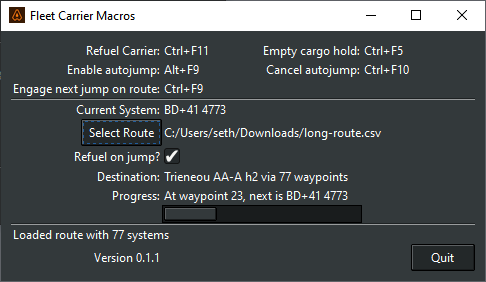
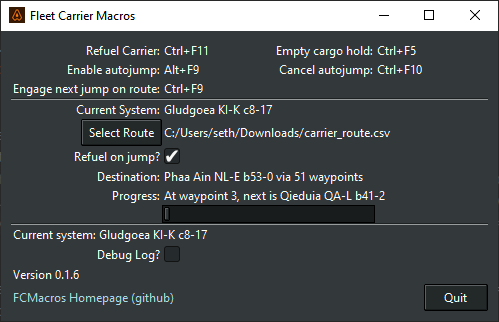
Updated docs and build for release 0.2.1

Changed region(s): [[0.0, 0.1418, 0.9568, 0.8794], [0.0, 0.0, 1.0, 1.0], [0.0, 0.8794, 0.3704, 0.9645]]

diff --git a/ocr.py b/ocr.py
@@ -1,3 +1,7 @@
+# Copyright (c) 2022 Seth Osher
+# OCR and Screen Image detection for fcmacros
+import os
+
 import cv2
 import pyautogui
 import pytesseract
@@ -165,7 +169,7 @@ def recognise(image, debug=False, show=False, save=False, confidence=80, save_su
             cv2.waitKey(0)
             cv2.destroyAllWindows()
         if save:
-            cv2.imwrite(f'images/debug_{save_suffix}.png', image)
+            cv2.imwrite(f'debugimages/debug_{save_suffix}.png', image)
 
     return details
 
@@ -239,7 +243,7 @@ if __name__ == '__main__':
 
 def get_screen_width():
     image = get_cv_screenshot()
-    logging.debug(f"Screen shape: {image.shape}")
+    logging.info(f"Screen shape: {image.shape}")
     return image.shape
 
 
@@ -247,7 +251,7 @@ def is_text_on_screen_list(words_list, region=None, debug=False, save="", show=F
     image = get_cv_screenshot(region)
     gray_image = cv2.cvtColor(image, cv2.COLOR_BGR2GRAY)
 
-    results = recognise(gray_image, confidence=51, debug=debug, save=len(save) > 0, show=True, save_suffix=save)
+    results = recognise(gray_image, confidence=51, debug=debug, save=len(save) > 0, show=show, save_suffix=save)
     for words in words_list:
         res = find_words(words, results, confidence=51)
         if res is not None:
@@ -286,11 +290,11 @@ def get_average_color_gray(region, debug_text=""):
 
 def get_average_color_bw(region, debug_text=""):
     image = get_cv_screenshot(region)
-    cv2.imwrite(f'images/debug_{debug_text}_color.png', image)
+    cv2.imwrite(f'debugimages/debug_{debug_text}_color.png', image)
     gray_image = cv2.cvtColor(image, cv2.COLOR_BGR2GRAY)
-    cv2.imwrite(f'images/debug_{debug_text}_gray.png', gray_image)
+    cv2.imwrite(f'debugimages/debug_{debug_text}_gray.png', gray_image)
     gray_image = cv2.threshold(gray_image, 0, 255, cv2.THRESH_BINARY | cv2.THRESH_OTSU)[1]
-    cv2.imwrite(f'images/debug_{debug_text}_thresh.png', gray_image)
+    cv2.imwrite(f'debugimages/debug_{debug_text}_thresh.png', gray_image)
     avg_color_per_row = np.average(gray_image, axis=0)
     avg_color = np.average(avg_color_per_row, axis=0)
     logging.debug(f"Average color for {debug_text} at {region} is {avg_color}")
@@ -315,6 +319,11 @@ def after_carrier_services(*args):
 
 
 def is_fullscreen():
+    f = glob.glob("debugimages")
+    if len(f) == 0:
+        os.mkdir("debugimages")
+        logging.info("Created debugimages folder")
+
     val = get_average_color_bw(WINDOW_TEST) <= ENABLED_THRESHOLD
-    logging.debug(f"Fullscreen={val}")
+    logging.info(f"Fullscreen={val}")
     return val

diff --git a/fcmacros.py b/fcmacros.py
@@ -14,8 +14,6 @@ import getpass
 import os
 import usersettings
 import webbrowser
-
-import locations
 import ocr
 from keymaps import *
 from locations import *
@@ -25,7 +23,7 @@ import sys
 import win32gui
 import zipfile
 
-VERSION = "0.1.6"
+VERSION = "0.2.1"
 BUNDLED = False
 LOGFILE = "fcmacros.log"
 
@@ -749,9 +747,9 @@ def setup_ui():
 
     ttk.Label(frame, text="Debug Log?").grid(column=0, row=row, sticky="e")
     ttk.Checkbutton(frame, variable=DEBUG).grid(column=1, row=row, sticky="w")
-    ttk.Label(frame, text="Image matching confidence?").grid(column=2, row=row, sticky="e")
+    # ttk.Label(frame, text="Image matching confidence?").grid(column=2, row=row, sticky="e")
     # ttk.Checkbutton(frame, variable=GRAYSCALE).grid(column=3, row=row, sticky="w")
-    ttk.Spinbox(frame, from_=10, to=90, textvariable=CONFIDENCE).grid(column=3, row=row, sticky="e")
+    # ttk.Spinbox(frame, from_=10, to=90, textvariable=CONFIDENCE).grid(column=3, row=row, sticky="e")
 
     row += 1
     ttk.Label(frame, text="Version " + VERSION).grid(column=0, row=row, sticky="w")
@@ -918,6 +916,7 @@ def run_main():
     ui_started = True
     log_setup()
     check_for_themes()
+    ocr.check_for_tesseract_exe()
     run_ui()
 
 

diff --git a/keymaps.py b/keymaps.py
@@ -1,3 +1,4 @@
+# Copyright (c) 2022 Seth Osher
 # These are the default keybindings
 # Change these if you have non standard settings
 # See also https://github.com/boppreh/keyboard/blob/master/keyboard/_canonical_names.py

diff --git a/locations.py b/locations.py
@@ -1,3 +1,4 @@
+# Copyright (c) 2022 Seth Osher
 # Offset to adjust for menubar missing on fullscreen
 FULLSCREEN_OFFSET = -10
 WINDOW_TEST = [635, 0, 100, 10]  # Location to test for window border

diff --git a/__main__.py b/__main__.py
@@ -1,3 +1,5 @@
+# Copyright (c) 2022 Seth Osher
+# Main launch for fcmacros running via pyinstaller
 from fcmacros import run_main
 
 

diff --git a/README.md b/README.md
@@ -17,30 +17,21 @@ Route files are in CSV format from the spansh router.  Only the first column mat
 Currently, this plugin uses default keybindings and mouse for input.  The mouse is used to navigate the galmap.
 Because it uses the keyboard and mouse, it is unlikely to work with a joystick or HOTAS enabled.
 
-Note: See _keymaps.py_ to edit the keboard mappings.  (Only in source coude version.)
+Note: See _keymaps.py_ to edit the keyboard mappings.  (Only in source code version.)
 
-It is also unlikely work with custom HUD colors as it uses image
-matching to verify its screen navigation.  If the macro cannot find the expected 
-ative
-user input it will abort for safety.
+The latest version no longer uses image matching, instead of uses known location on the screen
+and text recognition.  It may now work with custom HUD colors.  It is also hopefully insensitive
+to HUD Brightness options.    It is also tested on both windowed and full screen modes, but only at 1008p full screen.
 
-Because the HUD sizes are different on some ships, this may cause issues.  
-In particular the size of the "Carrier Services" UI button varies.
-Several different images are used to try and combat this. 
-It has been tested on the most likely to be used ships:
-* Imperial Cutter
-* Anaconda
-* Python
-* Type 9
-* Beluga
-
-You can add your own images if needed in addition to the ones supplied. 
-To do so, take a screenshot, clip out just the button (you can see the existing images in the images/ folder).
-Save this image in the images/ folder and make sure it is named "image-#.png".
+The tool is written attempting for safety in the UI.  
+If the macro cannot find the expected images or text it will abort for safety. 
+But I cannot guarantee it won't misbehave in some odd way.  It is just sending keys and mouse
+actions so if E:D loses focus while running it will start sending them to whatever application does have the focus.
 
 If you use the refuel option, make sure your ship has enough room for a full jumps worth of Tritium, 
 as much as 150 Tons if your carrier is fully loaded.   This option will load the carrier and the ship before 
 setting up a jump to minimize the carrier mass.
+
 
 ---------------
 
@@ -53,46 +44,62 @@ Option 1:
 
 Option 2:
 * Download the source
-* pip install keyboard pyautogui pillow opencv-python usersettings pywin32
+* pip install keyboard pyautogui pillow opencv-python usersettings pywin32 pytesseract
   * Or run "setup.cmd"
-* python fcmacros.py
+* python main.py
 
------------------
+
+--------------
+# 3rd Party Dependencies
+
+These are all included in the installation or are part of the pip install in setup.cmd.
+
+The latest edition uses teseract for the text recognition.  
+A portable copy is provided in a zip file and is auto extracted at first runtime.   
+More about the teseract project can be found [here](https://github.com/tesseract-ocr/tesseract/blob/main/doc/tesseract.1.asc).
+The provided copy is the [University of Manheim 64bit build.](https://github.com/UB-Mannheim/tesseract/wiki)  
+
+There is heavy use of [OpenCV](https://opencv.org/).  
+
+The latest version uses much less of [pyautogui](https://pyautogui.readthedocs.io/en/latest/)
+But much homage is owed to this tool.
+
+The UI theme is [awthemes awdark](https://sourceforge.net/projects/tcl-awthemes/) by Brad Lanam. (Thank you.)
+
+--------------
 
 # Troubleshooting
 
 Summary of actions are written to "fcmacros.log" in the working directory.
 If you are experiencing issues, enable debug logging.  The log file will contain
 details of every step the macro is taking - what keypresses it is making, 
-the images it is searching for on the screen etc.   Hopefully there will be enough
-information to trouble shoot.
+the images or text it is searching for on the screen etc.   Hopefully there will be enough
+information to troubleshoot.   For now it saves many debug_*.png images in the debugimages/ folder. 
+These are to also help troubleshoot problems.   You might see something like debug_TRITIUM_threshold.png. 
+If it doesn't contain the word "TRITIUM", that's a hint that it's not finding the text properly.
 
 Likely causes:
-* The image matching is screen resolution and colour specific.  If you're not running E:D at 1080p the images may not match.
-* Custom HUD colours will break the image matching.
-* Non-standard keybindings can also be a problem.
-* Try running in windowed mode if you are in full-screen mode.  Alt-Enter to switch modes.
-* Try using the default UI brightness.
-* You can also try reducing the image matching confidence from the default value of 75.
-* Look at some of the suggestions in the thread on issue report number 2: https://github.com/pilotso11/fc-macros/issues/2 
-
-If image matching is an issue, you can try replacing the images with your own cropped screenshots.
+* The image matching is screen resolution specific.  If you're not running E:D at 1080p the image locations are probably wrong.
+It should be possible to make them scale, but some experimentation is needed with different resolutions,
+especially those that are at different aspect ratios.
+* Custom HUD colours may be a problem, though hopefully not in the latest version.  If for some reason
+your colour palette is very bright or very dim, it might make it difficult to find what button is selected as the
+image is forced to a very high contrast.
+* As with the above, you might try using the default UI brightness.
+* Non-standard keybindings can also be a problem.  
+* Try running in windowed mode if you are in full-screen mode.  Alt-Enter to switch modes.  This also should be 
+working properly on the latest version in both modes, but its worth a try.
+* Look at some of the suggestions in the thread on issue report number 2: https://github.com/pilotso11/fc-macros/issues/2
+though these are less relevent with the latest releases.
 
 If you have the source code version you can edit the keybindings in "keymaps.py".
 
 # Work in progress
 
-* Automatic setup by capturing the images for matching.  
+The latest version has abandoned the pyautogui "find this image" technique and instead
+uses known offsets and text recognition.  This should be less trouble free.
 
-As of 0.1.5 (only from source code at the moment),
-Ctrl-F2 will run the UI and capture images for 
-  * *CARRIER SERVICES*
-  * *CARRIER MANAGEMENT*
-  * *INVENTORY*  (Selected and unselected)
-  * *TRANSFER*
-  * *TRITIUM DEPOT*
-
-Images are saved to the images/ folder with ID's of 99.
+More work is needed to support non-1080p resolutions.
 
 -----------------
 
